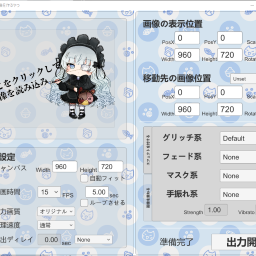
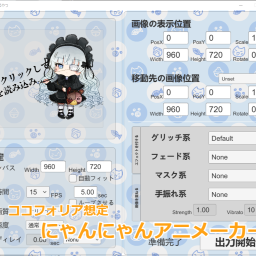
ああ

diff --git a/index.md b/index.md
@@ -10,7 +10,7 @@ layout: default
  [![work](logos/work.png)](https://work.hhotatea.com)  [![chara](logos/chara.png)](https://charas.hhotatea.com) [![skeb](logos/skeb.png)](https://skeb.jp/@HhotateA_xR) [![booth](logos/booth.png)](https://hhotatea.booth.pm/) [![twitter](logos/twitter.png)](https://twitter.com/HhotateA_xR) [![qiita](logos/qiita.png)](https://qiita.com/HhotateA) [![github](logos/github.png)](https://github.com/HhotateA) [![discord](logos/discord.png)](https://discord.gg/G6fMeAEutg)
 
 ## Items
-[![GottaniShader](images/item00.png)](items/GottaniShader.html) [![DanceVFX](images/item01.png)](items/DanceVFX.html) [![TrailPen](images/item02.png)](items/TrailPen.html) [![EmojiParticle](images/item03.png)](items/EmojiParticle.html) [![TailMover](images/item04.png)](items/TailMover.html) [![MagicDresser](images/item05.png)](items/MagicDresser.html) [![EmoteMotion](images/item06.png)](items/EmoteMotion.html) [![pHindicator](images/item07.png)](items/pHindicator.html) [![Dakimakura](images/item08.png)](items/Dakimakura.html) [![TextureModify](images/item09.png)](items/TextureModify.html) [![MeshModify](images/item10.png)](items/MeshModify.html)
+[![GottaniShader](images/item00.png)](items/GottaniShader.html) [![DanceVFX](images/item01.png)](items/DanceVFX.html) [![TrailPen](images/item02.png)](items/TrailPen.html) [![EmojiParticle](images/item03.png)](items/EmojiParticle.html) [![TailMover](images/item04.png)](items/TailMover.html) [![MagicDresser](images/item05.png)](items/MagicDresser.html) [![EmoteMotion](images/item06.png)](items/EmoteMotion.html) [![pHindicator](images/item07.png)](items/pHindicator.html) [![Dakimakura](images/item08.png)](items/Dakimakura.html) [![TextureModify](images/item09.png)](items/TextureModify.html) [![MeshModify](images/item10.png)](items/MeshModify.html) [![Animaker](images/item11.png)](https://charas.hhotatea.com/virtualab/MovieMaker)
 
 ## Notes
 [モデルのアウトラインのみを描写するシェーダー](blogs/page01.html)  
